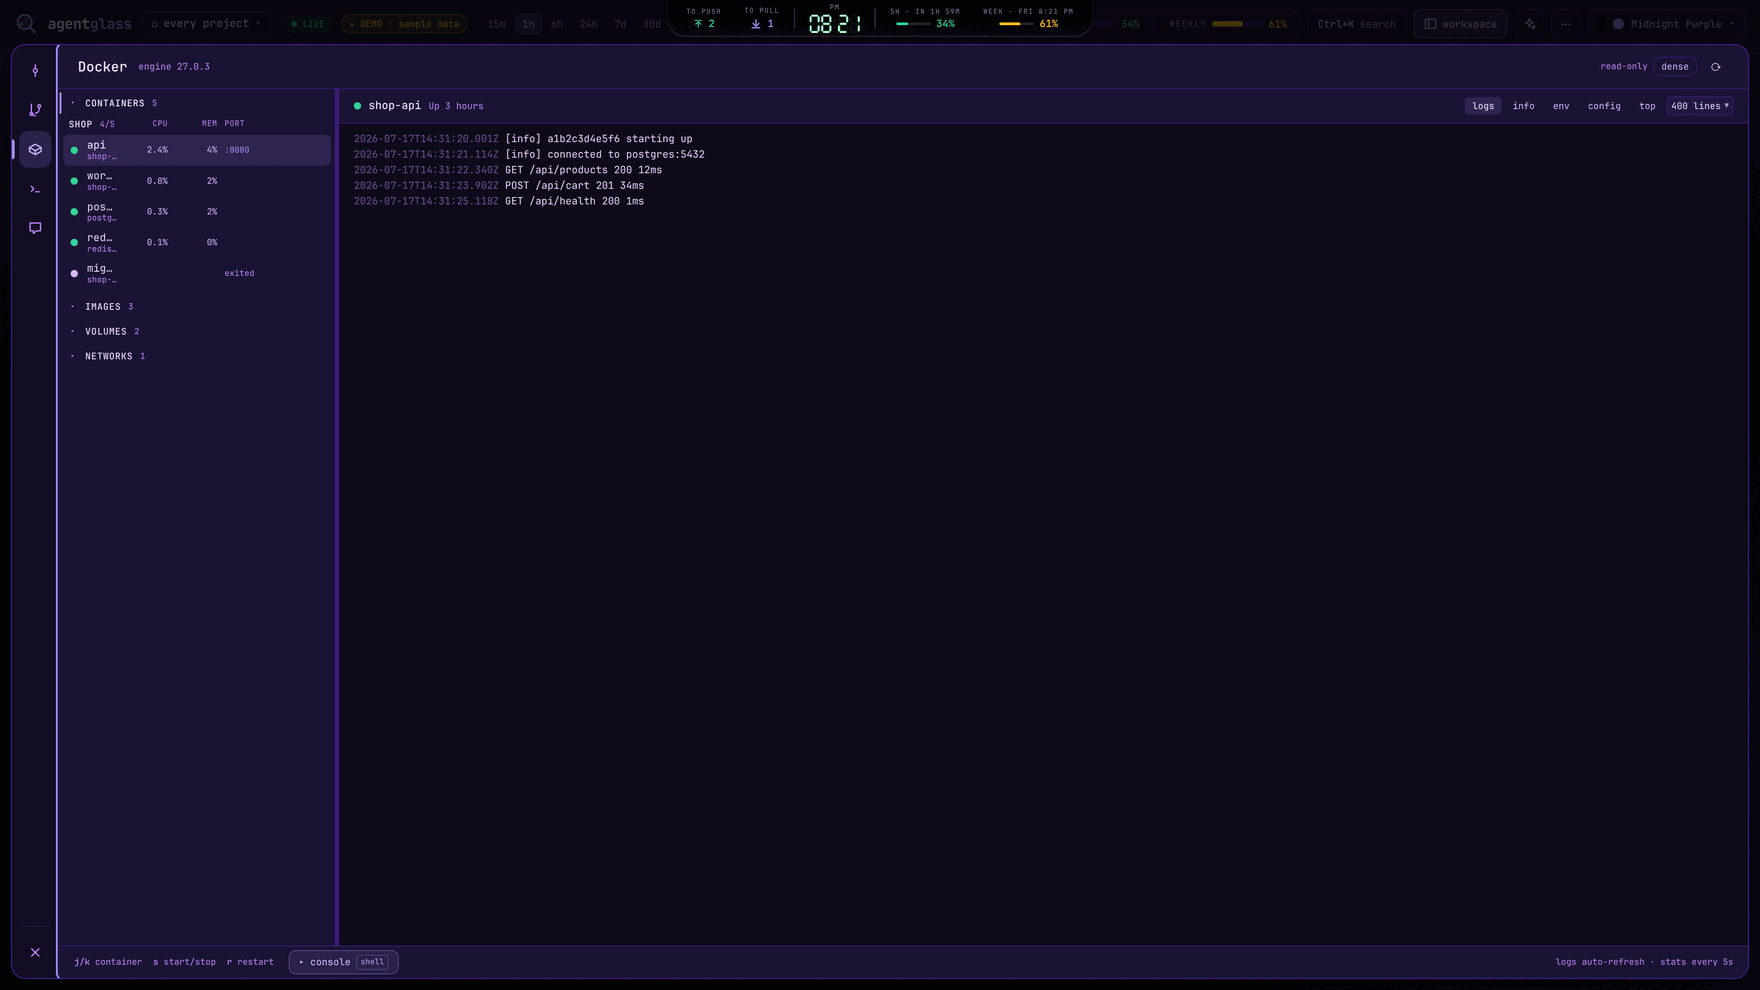
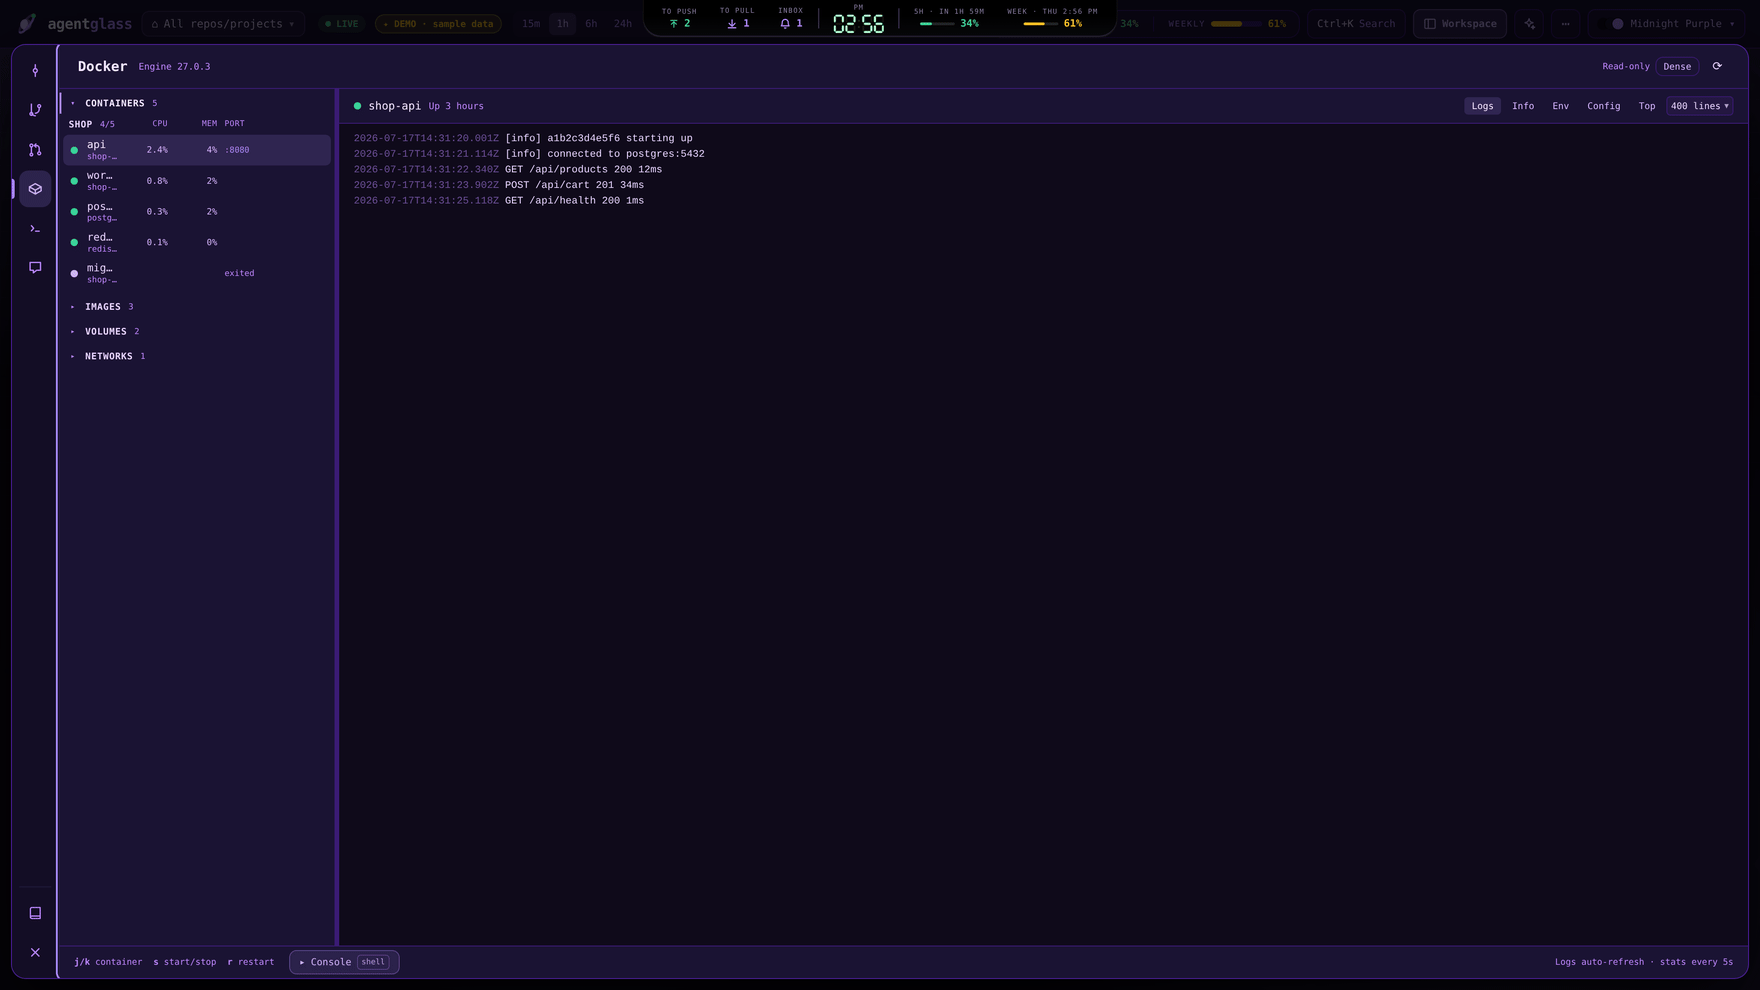
assets: recapture the README shots, and fix what made them wrong
Every screenshot showed the old loupe in the app header, so they are all
recaptured against #358's mark. Three real bugs surfaced doing it.

capture.ts picked workspace views with Ctrl+<n>. The rail's order is the
user's — drag-reorderable and persisted — and it gained the pull-request
view in the middle, so Ctrl+3 had quietly become PRs instead of Docker and
Ctrl+5 the terminal instead of Chat. A re-run wrote the PR panel into
docker.png and the terminal into chat.png under the wrong names. Views are
now picked by id, which cannot drift.

The scripts produced 3840px truecolour PNGs while the committed assets were
1760px palette ones, because the resize and quantise step was done by hand
afterwards and never written down. Re-running capture.ts therefore turned
2.6 MB of assets into 8 MB without anyone deciding to. That step is now
scripts/still.ts, shared by both capture scripts: resize to the width the
README actually displays (880 for the three theme shots, which share a
3-column table) and reduce to a palette, two-pass, for the same reason the
hero GIF does it.

pr.png was never captured by either script — it came from a one-off — so it
is a capture target now, opening on Files, which is what its caption
describes. It joins the hero GIF too; the alt text says so.

Net: 2.60 MB → 2.51 MB, with an extra panel in the GIF.

terminal.png still comes from capture-live.ts against a throwaway repo, and
now gets the same finishing so it sits beside the others at the same width
[…]

diff --git a/scripts/capture.ts b/scripts/capture.ts
@@ -50,6 +50,9 @@ const PANEL_H = 1080;
 /** The GIF is emitted at 1× and this width; 2× frames are downscaled into it,
  *  which is what makes text legible at a small file size. */
 const GIF_W = 1100, GIF_FPS = 12;
+/** How a still goes from a 3840px CDP capture to the asset the README shows —
+ *  see scripts/still.ts for why that step exists at all. */
+import { finishStill, STILL_W, THEME_W } from "./still.ts";
 
 /** The demo build is based at /agentglass/demo/ so it can be served from
  *  GitHub Pages, so its asset URLs carry that prefix. Serving it at the root
@@ -177,10 +180,16 @@ async function main() {
     const TALL = Math.min(2200, need + 8);
     console.log(`dashboard needs ${need}px; panels shot at ${W}x${PANEL_H}`);
 
-    /** Take a still, and optionally hold it in the GIF for `beats` frames. */
-    const capture = async (name: string | null, beats = 0) => {
+    /** Take a still, and optionally hold it in the GIF for `beats` frames.
+     *  The GIF keeps the full-resolution frame; only the file on disk shrinks. */
+    const capture = async (name: string | null, beats = 0, width = STILL_W) => {
       const png = await cdp.shot();
-      if (name) { writeFileSync(join(OUT, `${name}.png`), png); console.log(`  ${name}.png`); }
+      if (name) {
+        const file = join(OUT, `${name}.png`);
+        writeFileSync(file, png);
+        finishStill(file, width);
+        console.log(`  ${name}.png`);
+      }
       for (let i = 0; i < beats; i++) writeFileSync(join(framesDir, `f${String(n++).padStart(4, "0")}.png`), png);
     };
 
@@ -203,15 +212,28 @@ async function main() {
     // hand out a shell — so capturing it yields an empty pane, and a second and
     // a half of nothing in the middle of the hero GIF. `capture-live.ts` shoots
     // the real one against a throwaway repo instead.
-    const views: [string, string][] = [["git", "1"], ["diff", "2"], ["docker", "3"], ["chat", "5"]];
+    // Picked by view id, not by Ctrl+<n>. The rail's order is the user's — it
+    // is drag-reorderable and persisted — and it gained the pull-request view
+    // in the middle, which silently turned Ctrl+3 from Docker into PRs and
+    // Ctrl+5 from Chat into the terminal. Two README assets were captured
+    // under the wrong name because of it. An id cannot drift.
+    const views = ["git", "diff", "pr", "docker", "chat"];
     await key(cdp, "\\", { ctrlKey: true });
     await until(cdp, `document.querySelector('[role="tablist"][aria-label="Workspace views"]')`, "the workspace");
     await Bun.sleep(1200);
 
-    for (const [name, k] of views) {
-      await key(cdp, k, { ctrlKey: true });
-      await Bun.sleep(1400);
-      await capture(name, STILLS_ONLY ? 0 : 16);
+    for (const id of views) {
+      const ok = await cdp.ev(`(()=>{const b=document.querySelector('[data-view=${JSON.stringify(id)}]');b?.click();return !!b})()`);
+      if (!ok) { console.warn(`  ! no "${id}" view in the rail — skipped`); continue; }
+      await Bun.sleep(1600);
+      // The PR panel opens on Overview; Files is the view worth showing, and
+      // it is what the README's caption describes.
+      if (id === "pr") {
+        await cdp.ev(`(()=>{const b=[...document.querySelectorAll('button')]
+          .find(b=>/^Files\\b/.test(b.textContent.trim()));b?.click();return !!b})()`);
+        await Bun.sleep(1800);
+      }
+      await capture(id, STILLS_ONLY ? 0 : 16);
     }
 
     // Settings, which is where today's shortcuts and About live.
@@ -226,16 +248,19 @@ async function main() {
     await key(cdp, "Escape");
     await Bun.sleep(600);
 
-    // Themes, each on the dashboard so they are comparable.
-    const themes = ["forest", "ember", "deep-sea", "light"];
-    for (const t of themes) {
+    // Themes, each on the dashboard so they are comparable. The first three
+    // share a 3-column table in the README; light gets a row of its own.
+    const themes: [string, number][] = [
+      ["forest", THEME_W], ["ember", THEME_W], ["deep-sea", THEME_W], ["light", STILL_W],
+    ];
+    for (const [t, tw] of themes) {
       const ok = await cdp.ev(`(()=>{try{localStorage.setItem('agentglass.theme',${JSON.stringify(t)});window.dispatchEvent(new StorageEvent('storage',{key:'agentglass.theme'}));return 1}catch{return 0}})()`);
       if (!ok) continue;
       await cdp.ev(`location.reload()`);
       await until(cdp, `document.querySelector('#root')?.children.length`, `the ${t} theme`);
       await setViewport(PANEL_H);
       await Bun.sleep(2200);
-      await capture(`theme-${t}`, 0);
+      await capture(`theme-${t}`, 0, tw);
     }
 
     cdp.close();

diff --git a/scripts/still.ts b/scripts/still.ts
@@ -1,0 +1,47 @@
+/**
+ * Finish a captured still: resize to the width it is displayed at, and reduce
+ * it to a palette.
+ *
+ * CDP hands back 3840px of truecolour — about 2 MB for the dashboard alone,
+ * and a dozen of those would put more weight in .github/assets than there is
+ * in the source. The README never renders them wider than its column, so each
+ * is resized to the width it is actually shown at and quantised to 256
+ * colours, which a flat dark UI takes without visible loss.
+ *
+ * Two passes, a palette built from the whole image and then applied with
+ * dithering, for the same reason the hero GIF does it: one-pass quantisation
+ * bands the gradients.
+ *
+ * This lives here because both capture scripts need it. It used to be done by
+ * hand afterwards, which is why the committed assets were 1760px palette PNGs
+ * while the scripts produced 3840px truecolour ones — re-running either of
+ * them silently multiplied the repository's weight.
+ */
+import { existsSync, mkdtempSync, renameSync, rmSync } from "node:fs";
+import { tmpdir } from "node:os";
+import { join } from "node:path";
+
+/** The width the README shows a full-bleed shot at. */
+export const STILL_W = 1760;
+/** Half, for the three theme shots that share a 3-column table. */
+export const THEME_W = 880;
+
+export function finishStill(file: string, width: number = STILL_W) {
+  // Via a scratch directory: ffmpeg cannot read and write the same path in one
+  // invocation, and it must not leave a half-written asset behind if it fails.
+  const work = mkdtempSync(join(tmpdir(), "agx-still-"));
+  try {
+    const pal = join(work, "palette.png");
+    const out = join(work, "out.png");
+    const run = (args: string[]) =>
+      Bun.spawnSync(["ffmpeg", "-y", "-hide_banner", "-loglevel", "error", ...args]);
+    run(["-i", file, "-vf", `scale=${width}:-1:flags=lanczos,palettegen=max_colors=256`, pal]);
+    run(["-i", file, "-i", pal, "-lavfi",
+      `scale=${width}:-1:flags=lanczos[x];[x][1:v]paletteuse=dither=sierra2_4a`,
+      "-compression_level", "100", out]);
+    if (existsSync(out)) renameSync(out, file);
+    else console.warn(`  ! could not finish ${file} — is ffmpeg installed? left as captured`);
+  } finally {
+    rmSync(work, { recursive: true, force: true });
+  }
+}

diff --git a/scripts/capture-live.ts b/scripts/capture-live.ts
@@ -16,6 +16,9 @@ import { spawn } from "bun";
 import { existsSync, mkdtempSync, rmSync, mkdirSync, writeFileSync } from "node:fs";
 import { tmpdir } from "node:os";
 import { join, resolve } from "node:path";
+/** Same finishing as the demo stills, so the terminal shot sits beside them in
+ *  the README at the same width, density and weight. */
+import { finishStill } from "./still.ts";
 
 const ROOT = resolve(import.meta.dir, "..");
 const OUT = join(ROOT, ".github", "assets");
@@ -159,7 +162,9 @@ async function main() {
       await Bun.sleep(1600);
     }
     await Bun.sleep(2000);
-    writeFileSync(join(OUT, "terminal.png"), await cdp.shot());
+    const file = join(OUT, "terminal.png");
+    writeFileSync(file, await cdp.shot());
+    finishStill(file);
     console.log("  terminal.png");
     cdp.close();
   } finally {

diff --git a/README.md b/README.md
@@ -12,7 +12,7 @@
 
 ![stack](https://img.shields.io/badge/server-Bun%20%2B%20SQLite-black) ![ui](https://img.shields.io/badge/ui-React%20%2B%20Vite%20%2B%20Motion%20%2B%20Shiki-61dafb) ![workspace](https://img.shields.io/badge/workspace-diff%20%C2%B7%20git%20%C2%B7%20pr%20%C2%B7%20docker%20%C2%B7%20term%20%C2%B7%20chat-34d399) ![desktop](https://img.shields.io/badge/desktop-Electron%20app-47848f) ![themes](https://img.shields.io/badge/themes-22-a78bfa) ![license](https://img.shields.io/badge/license-MIT-green)
 
-![agentglass in action — the live cockpit, then the workspace: source control, diff review, Docker and chat, one keystroke away](.github/assets/hero.gif)
+![agentglass in action — the live cockpit, then the workspace: source control, diff review, pull requests, Docker and chat, one keystroke away](.github/assets/hero.gif)
 
 ![the cockpit — every session, spend, throughput, tool mix and what needs you](.github/assets/dashboard.png)
 
